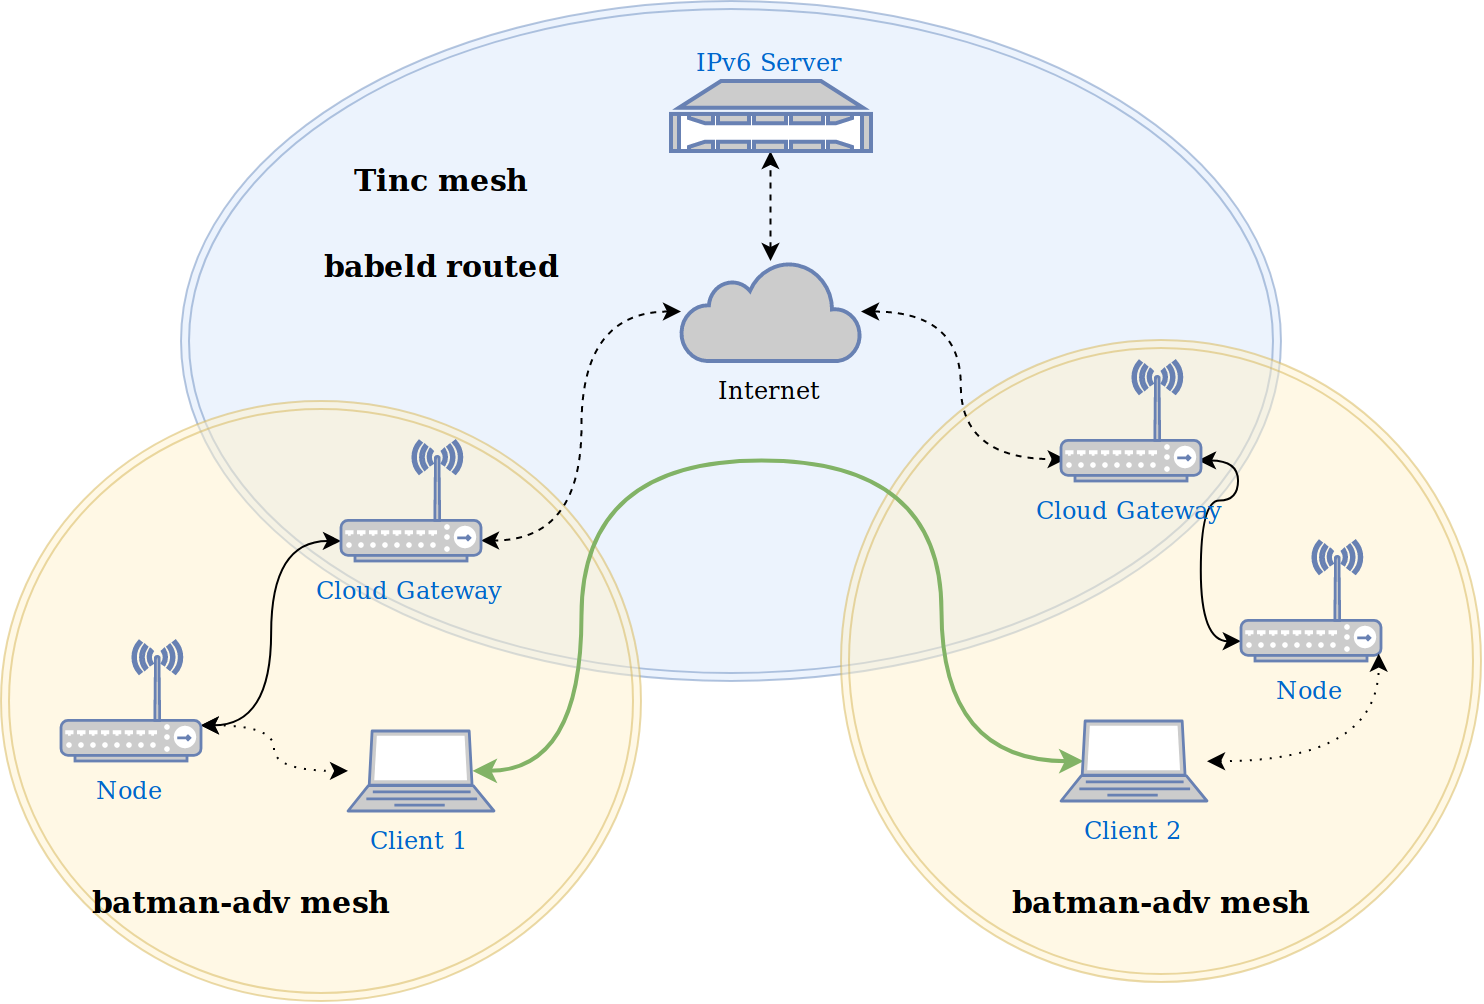
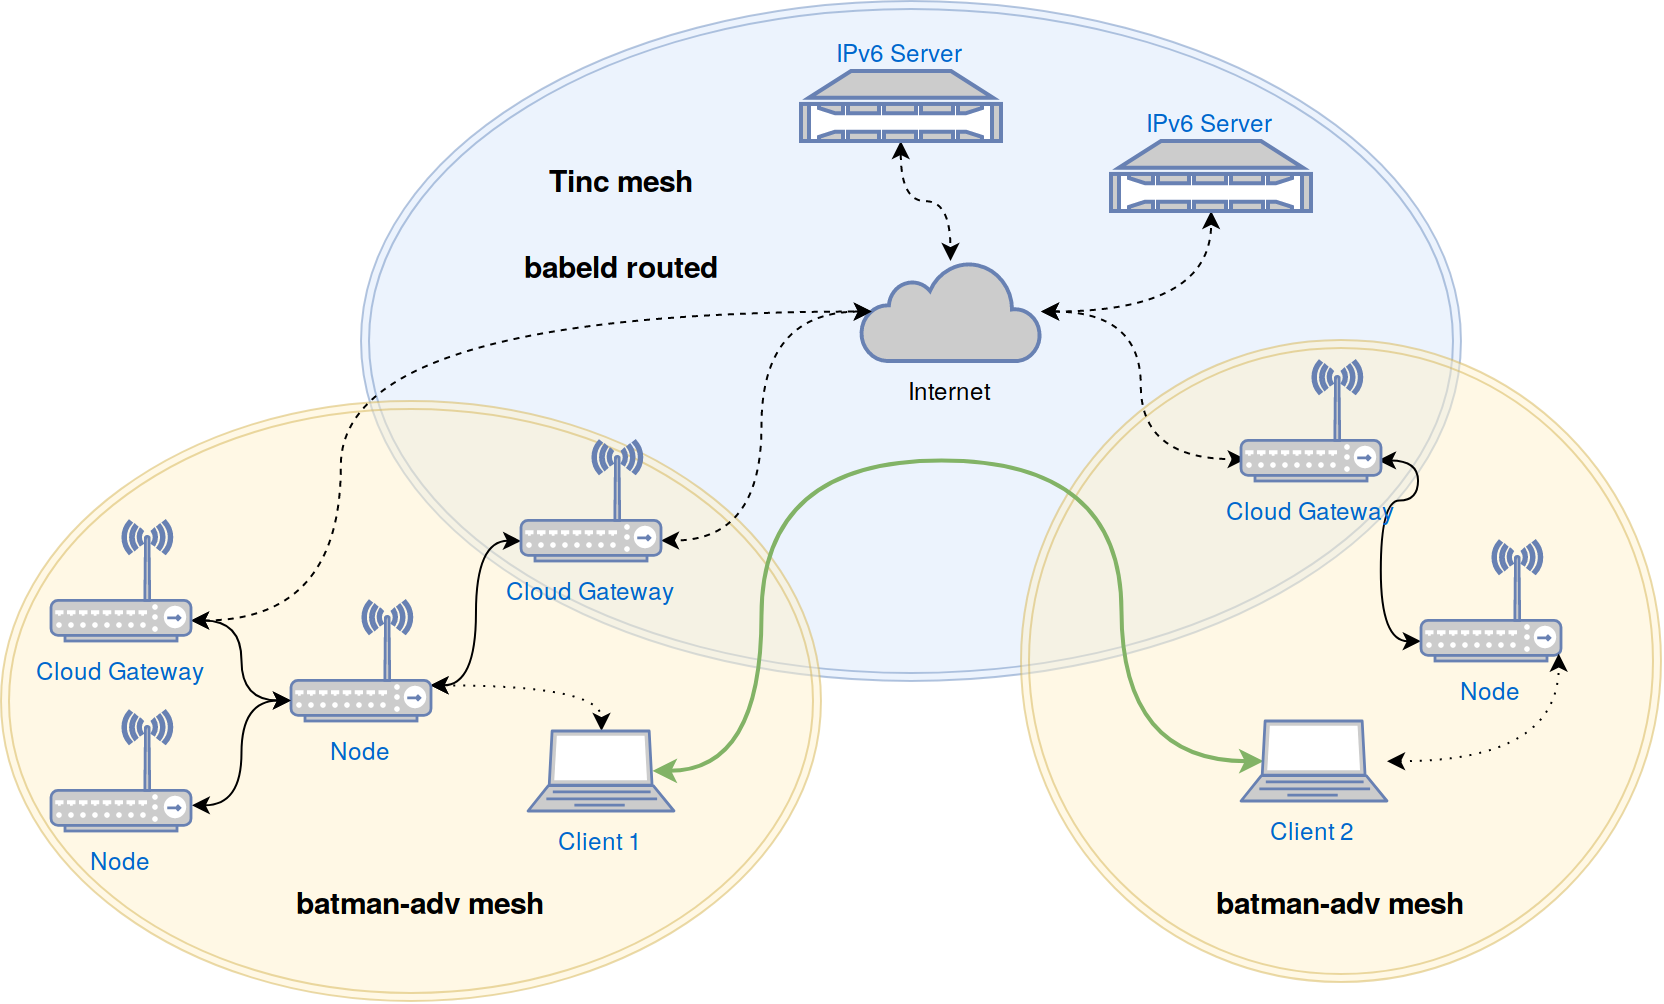
final blog2

diff --git a/blog2.html b/blog2.html
@@ -1,0 +1,30 @@
+<h1 id="librenet6---progress-report">LibreNet6 - progress report</h1>
+<p>During the last few weeks I jumped into LibreNet6 and started on setting up a local testbed. With a couple of routers and an virtual machine with real a IPv6 subnet I followed the current <a href="http://docs.altermundi.net/LibreNet6/Setup">Setup (Spanish)</a> guide and eventually got it running. The process had various stumbling stones and is rather unpleasant to setup. In a future setup I'll try to make the setup as simple as possible, only involving the installation of a single package.</p>
+<h1 id="the-need-of-librenet6">The need of LibreNet6</h1>
+<p>Simply said, LibreNet6 allows using the IPv6 functionality of LibreMesh (LiMe). With a single configuration file at <code>/etc/config/lime</code> it's possible to set nearly all functionality of the LiMe framework, from access points, mesh connects, used addresses to activated routing protocols. In the default configuration all nodes have a <code>/64</code> IPv6 subnet defined which is pseudo randomly generated based on the hash of the defined network name, which thereby all nodes of a (Layer2) mesh cloud share. The subnet is part of <a href="http://altermundi.net/">Altermundi's</a> address space, enabling in theory public IPv6 addresses to all nodes and clients of the LiMe cloud. However, most mesh gateways don't have a direct connection to Altermundi.</p>
+<p>There comes LibreNet6, it connects via a Tinc mesh multiple community networks which only have Internet access via a NATed IPv4 address. Only the cloud gateways (CG) have to use <a href="https://github.com/jech/babeld"><code>babeld</code></a>, within the mesh network other routing protocols can be used. All the CG has to do is announce public IPv6 uplink to the rest of it's cloud. Once multiple mesh networks are linked together their clients can start connecting directly via IPv6. A feature of Tinc is to perform NAT traversal so both CG's may connect directly with one another to avoid routing all traffic over the IPv6 server.</p>
+<p>The picture below tries to illustrate the idea.</p>
+<div class="figure">
+<img src="tinc-mesh.png" alt="Tinc mesh" />
+<p class="caption">Tinc mesh</p>
+</div>
+<p>One of the advantages of LibreNet6 is to handle multiple IPv6 server and CG at the same time. Babeld allows to choose the fastest connection within the Tinc mesh and in mesh clouds the used mesh routing protocol decides which gateway to choose.</p>
+<h1 id="speeding-up-development">Speeding up development</h1>
+<p>I'm not completely new to the LiMe code and contributed on various end within the last years (motivated by my last years GSoC). Developing and testing new software were always tedious as all packages had to be created individually per targets architecture. To speed up this process I spent some time on settings up <a href="https://github.com/libremesh/lime-packages/commit/0c81abff2376fff57b14c6be07b5e0a2475334f5">automatic snapshot builds for LiMe</a> take care of automatic updating of <a href="https://snapshots.libremesh.org/snapshots/packages/">LiMe snapshot repository</a>. As nearly all LiMe code is Lua, it's unnecessary to compile packages for all targets. To have a single package running on all architectures, the <code>PKGARCH:=all</code> settings can be used in packages <code>Makefiles</code>, and <a href="https://github.com/libremesh/lime-packages/commit/faed673052653800d3c10be2f62b416bd54f67d4">so I did</a>. As a result, LiMe has now CI and a constantly updated snapshot repository, this will allow me (and other LiMe devs) to accelerate the development and testing of new functionality and packages!</p>
+<h1 id="evaluation-of-the-current-librenet6-state">Evaluation of the current LibreNet6 state</h1>
+<p>So far the setup was roughly like that:</p>
+<ul>
+<li>Using Tinc 1.0 with a <a href="https://github.com/libremesh/librenet6-hostkeys">GitHub repository</a> to share public keys, which were then deployed on servers.</li>
+<li>Babel were installed manually on nodes requiring execution of various bash scripts.</li>
+<li>Administrators had to [keep track of used subnets</li>
+<li>manually](http://docs.altermundi.net/LibreNet6/Setup#subredes)</li>
+</ul>
+<p>With the previously mentioned testbed I tried some new software and came up with an easier setup which stays compatible with already deployed connections:</p>
+<ul>
+<li>Use Tinc 1.1 with all it's new feature called <a href="https://www.tinc-vpn.org/documentation-1.1/tinc-commands.html#index-invite"><code>invite</code> and <code>join</code></a> allows clients to connect simply by running Tinc with a given invite url. This also handels key creation &amp; exchange and setup of all Tinc related configuration files via a <a href="https://www.tinc-vpn.org/documentation-1.1/Writing-an-invitation_002dcreated-script.html#Writing-an-invitation_002dcreated-script"><code>invitation-created script</code></a>.</li>
+<li>Use of the recently added <a href="https://github.com/libremesh/lime-packages/commit/db20fa4a08de7011d544d218d5cc249c6c8487a8"><code>lime-proto-babled</code></a> to automatically configure all <code>babeld</code>, inclusive in <a href="https://github.com/libremesh/lime-packages/commit/93db12cda2220ca76df01160bb3edbf6f977bac5">combination with LibreNet6</a></li>
+<li>Offer a <a href="https://github.com/libremesh/lime-app"><code>lime-app</code></a> to execute Tinc's join command via web interface and show state of connection, like a simple IPv6 ping check.</li>
+<li>Create a simple admin interface to show connected cloud gateways and used IPv6 subnets.</li>
+</ul>
+<h1 id="next-steps">Next steps</h1>
+<p>So far I spent most of the time on understanding LibreNet6, babeld, Tinc and CI and setting up a running testbed. Next week I'll create a LiMe package to be installed on CG's, setting up babeld and Tinc. Also I'll dig into the <code>lime-app</code> to understand the web framework and offer a simple interface for users. Lastly I'll write a guide for server owners how they can setup the <em>IPv6 server</em> on a Debian system, using real IPv6 or <code>6to4</code> tunnels in case only a public IPv4 is available.</p>

diff --git a/blog2.md b/blog2.md
@@ -30,9 +30,14 @@ linked together their clients can start connecting directly via IPv6.
 A feature of Tinc is to perform NAT traversal so both CG's may connect directly
 with one another to avoid routing all traffic over the IPv6 server.
 
-The picture below tries to illustrate the idea
+The picture below tries to illustrate the idea.
 
 ![Tinc mesh](tinc-mesh.png)
+
+One of the advantages of LibreNet6 is to handle multiple IPv6 server and CG at
+the same time. Babeld allows to choose the fastest connection within the Tinc
+mesh and in mesh clouds the used mesh routing protocol decides which gateway to
+choose.
 
 # Speeding up development
 
